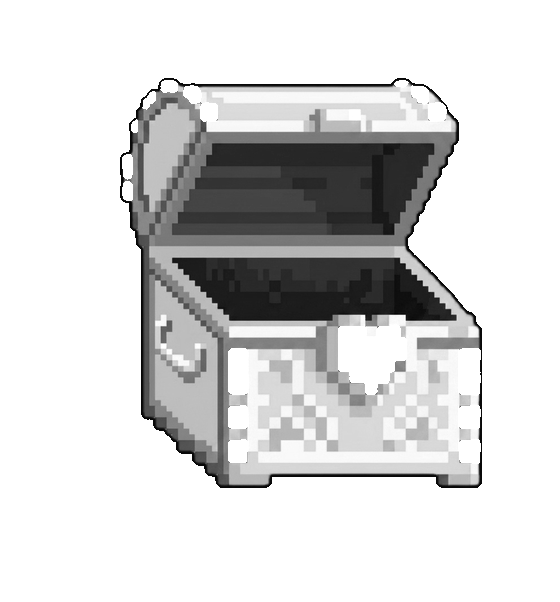
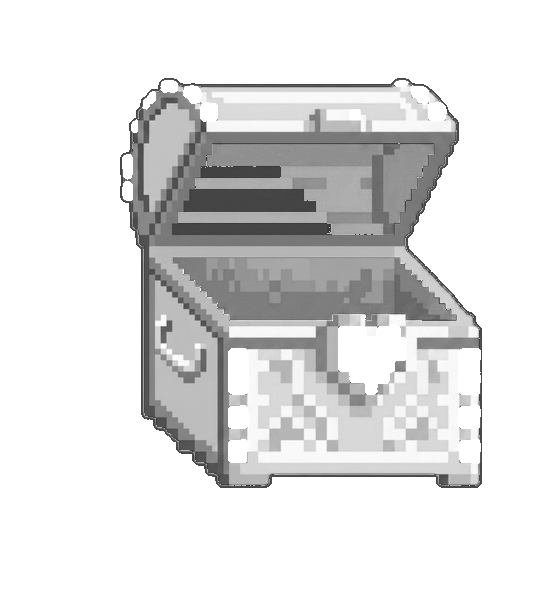
Polish MAXXX art, chest interior dye, and sticker picker.
Replace the placeholder MAXXX icon with the transparent Imgur wordmark, merge the chest cavity into the luminance dye mask so interiors take the case color, and keep sticker rotate/scale on-canvas with grab-offset plus click-outside HSV picking. Whale crown weight stays at 0.35 so only MAXXX WIN is the new 500k top hit; RTP still solves to 96%.

diff --git a/src/components/cases/ChestDesigner.tsx b/src/components/cases/ChestDesigner.tsx
@@ -46,6 +46,7 @@ export function ChestDesigner({
   const onStickersRef = useRef(onStickers);
   onStickersRef.current = onStickers;
   const dragRef = useRef<DragState | null>(null);
+  const pickerRef = useRef<HTMLDivElement>(null);
   const [selectedId, setSelectedId] = useState<string | null>(null);
   const [pickerOpen, setPickerOpen] = useState(false);
   const allowed = ITEM_LIST.filter((item) => allowedItemIds.includes(item.id));
@@ -81,7 +82,7 @@ export function ChestDesigner({
       }
       if (drag.mode === "rotate") {
         const deg = (Math.atan2(pos.x - cur.x, -(pos.y - cur.y)) * 180) / Math.PI;
-        patch(drag.id, { rotate: deg });
+        patch(drag.id, { rotate: deg - drag.grabX });
         return;
       }
       const dist = Math.hypot(pos.x - cur.x, pos.y - cur.y);
@@ -102,6 +103,17 @@ export function ChestDesigner({
     };
   }, []);
 
+  useEffect(() => {
+    if (!pickerOpen) return;
+    function onDown(e: PointerEvent) {
+      if (pickerRef.current && !pickerRef.current.contains(e.target as Node)) {
+        setPickerOpen(false);
+      }
+    }
+    window.addEventListener("pointerdown", onDown);
+    return () => window.removeEventListener("pointerdown", onDown);
+  }, [pickerOpen]);
+
   function beginMove(id: string, clientX: number, clientY: number) {
     const pos = pointerPct(clientX, clientY);
     const cur = stickersRef.current.find((s) => s.id === id);
@@ -117,13 +129,15 @@ export function ChestDesigner({
     setSelectedId(id);
   }
 
-  function beginRotate(id: string) {
+  function beginRotate(id: string, clientX: number, clientY: number) {
+    const pos = pointerPct(clientX, clientY);
     const cur = stickersRef.current.find((s) => s.id === id);
-    if (!cur) return;
+    if (!pos || !cur) return;
+    const deg = (Math.atan2(pos.x - cur.x, -(pos.y - cur.y)) * 180) / Math.PI;
     dragRef.current = {
       id,
       mode: "rotate",
-      grabX: 0,
+      grabX: deg - cur.rotate,
       grabY: 0,
       startScale: cur.scale,
       startDist: 1,
@@ -173,7 +187,7 @@ export function ChestDesigner({
         <p className="mb-3 text-[11px] text-slate-500">
           Recolors the gold wood and the open interior. The cyan heart, lid studs, and side studs stay locked.
         </p>
-        <div className="relative flex items-start gap-3">
+        <div ref={pickerRef} className="relative flex items-start gap-3">
           <button
             type="button"
             onClick={() => setPickerOpen((v) => !v)}
@@ -242,7 +256,7 @@ export function ChestDesigner({
               onPointerDown={(e) => {
                 e.preventDefault();
                 e.stopPropagation();
-                beginRotate(selected.id);
+                beginRotate(selected.id, e.clientX, e.clientY);
               }}
               className="pointer-events-auto absolute left-1/2 top-0 z-10 h-4 w-4 -translate-x-1/2 -translate-y-7 cursor-grab rounded-full border-2 border-white bg-emerald-400 shadow touch-none"
             />

diff --git a/src/components/cases/CaseReel.tsx b/src/components/cases/CaseReel.tsx
@@ -122,7 +122,7 @@ function sprinkleMaxxxBaits(strip: CaseItem[], rand: () => number): void {
   const travel: number[] = [];
   for (let i = 3; i < LAND_INDEX; i++) travel.push(i);
   shuffleInPlace(travel, rand);
-  const placeCount = Math.min(travel.length, Math.max(10, Math.floor(travel.length / 3.2)));
+  const placeCount = Math.min(travel.length, Math.max(10, Math.floor(travel.length / 4)));
   for (let n = 0; n < placeCount; n++) {
     const slot = travel[n];
     if (slot === undefined || slot === LAND_INDEX) continue;
@@ -317,8 +317,9 @@ export function CaseReel({
     onGoldTriggered?.();
     timeoutRef.current = setTimeout(() => {
       const goldRand = mulberry32(seedBase * 104729 + 3);
-      // Gold reel: the pool is already gold-tier and those items can land. No baits.
-      const goldStrip = buildStrip(goldPool.length ? goldPool : [landed.item], landed.item, goldRand);
+      // Gold reel: real gold-pool items can land. No GOLD SPIN indicator baits.
+      // MAXXX WIN still flies past visually and never overwrites LAND_INDEX.
+      const goldStrip = buildStrip(goldPool.length ? goldPool : [landed.item], landed.item, goldRand, [], true);
       pendingSpinRef.current = {
         seed: seedBase + 1,
         duration: goldDuration,
@@ -342,11 +343,12 @@ export function CaseReel({
   useEffect(() => {
     preloadIcons(pool);
     preloadIcons(goldPool);
+    preloadIcons([GOLD_INDICATOR, MAXXX_WIN]);
     // eslint-disable-next-line react-hooks/exhaustive-deps
   }, [spinToken]);
 
   // Full-length idle strip so unique icons decode during countdown / before Open.
-  // Sprinkle gold-tier pass-bys here too so the pool is visible before Open.
+  // GOLD SPIN indicator baits (not gold-pool items) fly past before Open.
   useEffect(() => {
     if (spinToken !== 0 || strip.length > 0 || pool.length === 0) return;
     const rand = mulberry32(laneSeed + 17);
@@ -361,7 +363,7 @@ export function CaseReel({
     const rand = mulberry32(seedBase);
     const goesGold = goldSpinEnabled && result.goldTier;
     const targetForMain = goesGold ? GOLD_INDICATOR : result.item;
-    // Normal reel: gold-tier items fly past as baits. Landing stays the real result
+    // Normal reel: GOLD SPIN indicator flies past as bait. Landing stays the real result
     // (or the GOLD SPIN indicator). The gold-spin reel below keeps the gold-only pool.
     const mainStrip = buildStrip(pool, targetForMain, rand, goldPool, true);
     pendingSpinRef.current = {

diff --git a/src/components/cases/ChestArt.tsx b/src/components/cases/ChestArt.tsx
@@ -1,3 +1,4 @@
+import type { CSSProperties } from "react";
 import { clsx } from "clsx";
 import type { CaseItem } from "../../data/items";
 import { ITEMS } from "../../data/items";
@@ -5,7 +6,6 @@ import { ItemIcon } from "../ui/ItemIcon";
 import { CHEST_ASPECT, type ChestSticker } from "../../lib/chest";
 
 const DYE = "/images/chests/chest-dye.png";
-const WOOD = "/images/chests/chest-wood.png";
 const LOCK = "/images/chests/chest-lock.png";
 
 export function ChestArt({
@@ -21,9 +21,8 @@ export function ChestArt({
 }) {
   return (
     <div className={clsx("relative isolate", className)} style={{ aspectRatio: `${CHEST_ASPECT}` }}>
-      <img src={WOOD} alt="" draggable={false} className="pointer-events-none absolute inset-0 h-full w-full object-contain" />
       <div
-        className="absolute inset-0"
+        className="absolute inset-0 isolate"
         style={{
           WebkitMaskImage: `url(${DYE})`,
           maskImage: `url(${DYE})`,
@@ -33,8 +32,10 @@ export function ChestArt({
           maskRepeat: "no-repeat",
           WebkitMaskPosition: "center",
           maskPosition: "center",
+          maskMode: "luminance",
+          WebkitMaskSourceType: "luminance",
           backgroundColor: color,
-        }}
+        } as CSSProperties}
       >
         <img
           src={DYE}

diff --git a/src/lib/sound.ts b/src/lib/sound.ts
@@ -1,5 +1,5 @@
-// Tiny synthesized sound engine (Web Audio oscillators/noise only — no
-// external audio assets, so there is zero licensing ambiguity).
+// Synthesized sound engine (Web Audio oscillators/noise) plus one local
+// jackpot stinger for the MAXXX WIN hit celebration.
 
 type Envelope = { attack?: number; decay?: number; sustain?: number; release?: number };
 

diff --git a/src/data/cases.ts b/src/data/cases.ts
@@ -226,7 +226,7 @@ const CASE_DEFS: CaseDef[] = [
       ["kraken_heart", 25],
       ["tidal_monarch", 6],
       ["maelstrom_core", 1.5],
-      ["leviathans_crown", 0.5],
+      ["leviathans_crown", 0.35],
       ["maxxx_win", 0.12],
       ["barnacle_coin", 0],
     ],

diff --git a/src/store/index.ts b/src/store/index.ts
@@ -12,3 +12,4 @@ export * from "./loyaltyStore";
 export * from "./identityStore";
 export * from "./winLeaderStore";
 export * from "./communityCaseStore";
+export * from "./maxxxWinStore";
